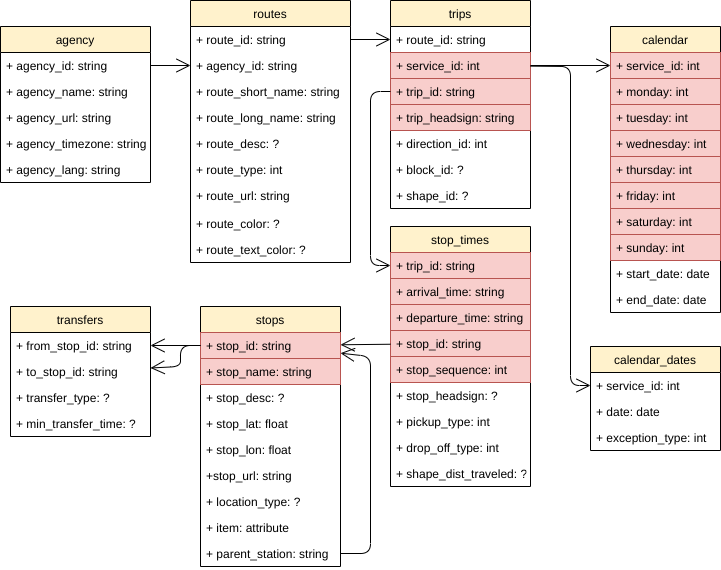
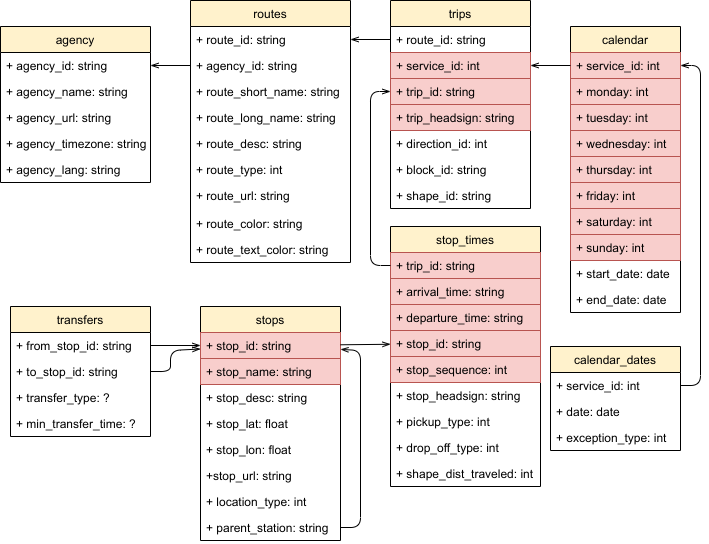
actualise CDC et schema bdd

Changed region(s): [[0.0, 0.0, 1.0, 1.0]]

diff --git a/CDC.md b/CDC.md
@@ -64,6 +64,8 @@ Dans le programme, ces informations sont obtenues via l'équipement terminal sur
 Il peut s'agir d'une gare de chemin de fer ou d'une gare routière. 
 Une ville peut posséder plusieurs gares.
 
+**itinéraire** : 
+
 **place** : siège à bord d'un train, réservable par un voyageur pour un voyage.
 
 **rame** : train au sens « matériel roulant». *compléter : dire quels attributs sont propres à la rame (le nb de places, etc.) là où d'autres attributs sont propres au train ou au voyage*
@@ -72,6 +74,8 @@ Une ville peut posséder plusieurs gares.
 
 **train** : tout véhicule dont la circulation est assurée par la SNCF et dont l'utilisateur peut réserver une place. 
 Les trains sont de différents types, qu'ils circulent sur voie ferrée ou routière (TGV, INOUI, TER, OUIGO, Car).
+
+**trajet** : 
 
 **service** : ligne commerciale définie par une gare de départ, une gare d'arrivée, des gares d'arrêt, des horaires de départ et d'arrivée dans chacune des gares de départ, d'arrivée et d'arrêt, et un calendrier de circulation (circule ou ne circule pas, pour chaque jour de semaine). Le service est le numéro de train utilisé en gare et sur un billet de train pour la communication avec les voyageurs.
 
@@ -304,7 +308,7 @@ Un voyageur/agent doit pouvoir réserver des places en choisissant :
 
 ### Jeux de données
 
-Les jeux de données utilisés sont ceux de la SNCF, mis à disposition à [](https://ressources.data.sncf.com/explore/)
+Les ensembles de données utilisés sont ceux mis à disposition par la SNCF à https://ressources.data.sncf.com/explore/
 
 * Horaires
   * Horaires des TGV : https://ressources.data.sncf.com/explore/dataset/horaires-des-train-voyages-tgvinouiouigo/table/
@@ -319,114 +323,181 @@ Les jeux de données utilisés sont ceux de la SNCF, mis à disposition à [](ht
 
 #### Horaires
 
-Les jeux de données Horaires (de façon identique pour chaque jeu) sont constitués de 8 tables :
+Les ensembles de données sont disponibles au format [GTFS](https://fr.wikipedia.org/wiki/General_Transit_Feed_Specification) (*General Transit Feed Specification*), format de ficher standardisé pour les horaires de transports en commun.
 
-* `agency.txt`
-* `calendar_dates.txt`
-* `calendar.txt`
-* `routes.txt`
-* `stop_times.txt`
-* `stops.txt`
-* `transfers.txt`
-* `trips.txt`
+##### Description du format GTFS
 
-Le schéma relationnel est le suivant :
+Parmi les fichiers obligatoires et facultatifs du standard GTFS, chaque ensemble de données Horaires fourni par la SNCF est constitué de 8 fichiers :
 
-[mettre le schéma]
+* `agency.txt` : Agences de transports en commun ayant un service représenté dans cet ensemble de données.
+* `stops.txt` : Arrêts où les voyageurs peuvent monter et descendre. Définit également les stations et leurs entrées.
+* `routes.txt` : Itinéraires en transports en commun. Un itinéraire est un ensemble de trajets présentés aux voyageurs  comme relevant du même service.
+* `trips.txt` : Trajets pour chaque itinéraire. Un trajet est une série d'au moins deux arrêts desservis à des horaires précis.
+* `stop_times.txt` : Heures d'arrivée et de départ d'un train depuis des arrêts spécifiques, pour chaque trajet.
+* `calendar.txt` : Dates de service indiquées à l'aide d'un horaire hebdomadaire comportant des dates de départ et d'arrivée.
+* `calendar_dates.txt` : Exceptions pour les services définis dans le fichier `calendar.txt`.
+* `transfers.txt` : Règles de liaison aux pôles de correspondance entre des itinéraires.
 
-La table `agency.txt` décrit les **??agences??**.
-Elle comporte les champs :
 
-* `agency_id` : 
-* `agency_name` : 
-* `agency_url` :
-* `agency_timezone` :
-* `agency_lang` :
+Le schéma logique d'un ensemble de données Horairesest le suivant :
 
-La table `routes.txt` décrit les lignes de voie ferrée.
-Elle est liée à `agency.txt` par le champ `agency_id`.
-Elle comporte les champs :
+![Schéma logique des ensembles de données Horaires fournis par la SNCF](diagrammes/bdd_sncf_horaires.png "Schéma logique des ensembles de données Horaires fournis par la SNCF")
 
-* `route_id` :
-* `agency_id` :
-* `route_short_name` :
-* `route_long_name` :
-* `route_desc` :
-* `route_type` :
-* `route_url` :
-* `route_color` :
-* `route_text_color` :
+###### Fichier `agency.txt`
 
-La table `trips.txt` décrit les lignes commerciales (par exemple : ).
-Elle est liée à `routes.txt` par le champ `route_id`.
-Elle comporte les champs : 
+Le fichier `agency.txt` décrit les agences de transports en commun ayant un service représenté dans cet ensemble de données. Il s'agit de la SNCF.
+Il comporte les champs :
 
-* `route_id` : l'identifiant de route sur laquelle la ligne commerciale circule.
-* `service_id` : l'identifiant du **??service??**
-* `trip_id` : l'identifiant du **??trip??**
-* `trip_headsign` : le numéro de train tel qu'affiché en gare et sur les billets
-* `direction_id` :
-* `block_id` :
-* `shape_id` :
+* `agency_id` : indique la marque du réseau de transports en commun (souvent identique au nom de l'agence)
+* `agency_name` : nom complet de l'agence de transports en commun.
+* `agency_url` : URL de l'agence de transports en commun.
+* `agency_timezone` : fuseau horaire de la zone où se trouve l'agence de transports en commun.
+* `agency_lang` : langue principale utilisée par cette agence de transports en commun.
 
-La table `stop_times.txt` décrit les arrêts en gare pour 
-Elle comporte les champs : 
+###### Fichier `stops.txt`
 
-* `trip_id` : le **trip** concerné
-* `arrival_time` : l'heure d'arrivée en gare
-* `departure_time` : l'heure de départ de la gare
-* `stop_id` : l'identifiant de la gare d'arrêt
-* `stop_sequence` :
-* `stop_headsign` :
-* `pickup_type` :
-* `drop_off_type` :
-* `shape_dist_traveled` :
+Le fichier `stops.txt` décrit les arrêts où les voyageurs peuvent monter et descendre, c'est à dire les gares.
+Il est lié à la table `stop_times.txt` par le champ `stop_id`.
+Il comporte les champs :
 
-La table `stops.txt` décrit les lieux d'arrêt, c'est-à-dire les gares.
-Elle est liée à la table `stop_times.txt` par le champ `stop_id`.
-Elle comporte les champs :
+* `stop_id` : identifie un arrêt, une station ou une entrée de station.
+  Le terme "entrée de station" désigne à la fois les entrées et les sorties de station. Les arrêts, les stations et les entrées de station sont collectivement appelés "emplacements". Le même arrêt peut être desservi par plusieurs itinéraires.
+* `stop_name` : nom de l'emplacement.
+* `stop_desc` : description de l'emplacement. Ce champ n'est pas toujours renseigné.
+* `stop_lat` : latitude de l'emplacement.
+* `stop_lon` : longitude de l'emplacement.
+* `zone_id` : définit la zone tarifaire d'un arrêt. Ce champ n'est pas toujours renseigné.
+* `stop_url` : URL d'une page Web qui décrit l'emplacement. Ce champ n'est pas toujours renseigné.
+* `location_type` : type d'emplacement :
+  * 0 ou vide : arrêt ou quai (lieu où les usagers montent dans un véhicule de transport en commun ou en descendent). Le terme "quai" est utilisé lorsque cette valeur est définie au sein d'un champ `parent_station`.
+  * 1 : station (zone ou structure physique comprenant un ou plusieurs quais)
+  * 2 : entrée ou sortie (lieu où les usagers peuvent entrer dans une station depuis la rue ou en sortir). Si une entrée/sortie appartient à plusieurs stations, tous les chemins correspondants sont indiqués, et le fournisseur de données doit désigner une station en tant que station principale (parente).
+  * 3 : intersection générique (un emplacement dans une station qui ne correspond à aucune autre valeur `location_type`).
+  * 4 : Zone d'embarquement (un emplacement spécifique sur un quai où les usagers peuvent monter à bord d'un véhicule ou en descendre)
+* `parent_station` : spécifie la hiérarchie entre les différents emplacements définis dans le fichier `stops.txt`. Contient l'ID de l'emplacement parent, comme suit :
+  * Arrêt/quai (`location_type`=0) : le champ `parent_station` contient l'ID d'une station.
+  * Station (`location_type`=1) : ce champ doit être vide.
+  * Entrée/sortie (`location_type`=2) ou intersection générique (`location_type`=3) : le champ `parent_station` contient l'ID d'une station (`location_type`=1).
+  * zone d'embarquement (`location_type`=4) : le champ `parent_station` contient l'ID d'un quai.
 
-* `stop_id` : l'identifiant de la gare d'arrêt
-* `stop_name` : le nom de la gare d'arrêt
-* `stop_desc`
-* `stop_lat` : la latitude de la gare d'arrêt
-* `stop_lon` : la longitute de la gare d'arrêt
-* `zone_id` : 
-* `stop_url` : 
-* `location_type` : 
-* `parent_station` :
+###### Fichier `routes.txt`
 
-La table `calendar.txt` décrit les jours de service pour un service donné.
-Elle est liée à la table `trips.txt` par le champ `service_id`.
-Elle comporte les champs :
+Le fichier `routes.txt` décrit les itinéraires en transports en commun. Un itinéraire est un ensemble de trajets présentés aux voyageurs comme relevant du même service.
+Il est liée à `agency.txt` par le champ `agency_id`.
+Il comporte les champs :
 
-* `service_id` : l'identifiant du **service** concerné
-* `monday` : valeur boléenne de circulation le lundi
-* `tuesday` : valeur boléenne de circulation le mardi
-* `wednesday` : valeur boléenne de circulation le mercredi
-* `thursday` : valeur boléenne de circulation le jeudi
-* `friday` : valeur boléenne de circulation le vendredi
-* `saturday` : valeur boléenne de circulation le samedi
-* `sunday` : valeur boléenne de circulation le dimanche
+* `route_id` : définit un itinéraire.
+* `agency_id` : agence pour l'itinéraire spécifié. Fait référence à `agency.agency_id`.
+* `route_short_name` : version courte du nom d'un itinéraire. Il s'agit généralement d'un identifiant court, abstrait, comme "32", "100X" ou "vert", que les usagers utilisent pour identifier un itinéraire, sans donner d'indications sur les lieux desservis
+* `route_long_name` : le nom complet d'un itinéraire. Ce nom est généralement plus descriptif que la version courte indiquée dans le champ `route_short_name`. Il inclut souvent la destination ou le terminus de l'itinéraire. 
+* `route_desc` : description d'un itinéraire. Les informations fournies doivent être utiles et de qualité, elles ne répètent pas le nom de l'itinéraire. Ce champ n'est pas renseigné.
+* `route_type` : décrit le moyen de transport utilisé pour un itinéraire. Les options suivantes sont acceptées :
+  * `0` : tramway ou métro léger. Tout système de métro léger ou circulant sur la chaussée dans une zone métropolitaine.
+  * `1` : métro. Tout système ferroviaire souterrain circulant au sein d'une zone métropolitaine.
+  * `2` : train. Utilisé pour les trajets interurbains ou longue distance.
+  * `3` : bus. Utilisé pour les lignes de bus courte et longue distance.
+  * `4` : ferry. Utilisé pour le service de bateaux courte et longue distance.
+  * `5` : tramway à traction par câble. Utilisé pour les systèmes de tramways au niveau de la chaussée dans lesquels le câble passe sous le véhicule, comme c'est le cas à San Francisco.
+  * `6` : téléphérique. Service de transport par câble où les cabines, voitures, télécabines ou sièges sont suspendus à l'aide d'un ou de plusieurs câbles.
+  * `7` : funiculaire. Tout système ferroviaire conçu pour les pentes raides.
+  * `11` : trolleybus. Autobus électrique alimenté par des lignes aériennes de contact.
+  * `12` : monorail. Service de chemin de fer roulant sur une voie constituée d'un rail ou d'une poutre unique.
+* `route_url` : URL d'une page Web pour un itinéraire spécifique.
+* `route_color` : couleur de l'itinéraire correspondant à celle utilisée dans les supports destinés au public.
+* `route_text_color` : couleur lisible pour le texte à afficher sur la couleur d'arrière-plan `route_color`.
+
+###### Fichier `trips.txt`
+
+Le fichier `trips.txt` définit les trajets pour chaque itinéraire.
+Il est lié à `routes.txt` par le champ `route_id`.
+Il comporte les champs : 
+
+* `route_id` : définit un itinéraire. Fait référence à `routes.route_id`.
+* `service_id` : définit les dates auxquelles le service est disponible pour un ou plusieurs itinéraires. Fait référence à `calendar.service_id` ou à `calendar_dates.service_id`
+* `trip_id` : définit un trajet.
+* `trip_headsign` : texte qui apparaît sur la signalétique indiquant aux voyageurs la destination du trajet (le numéro de train tel qu'affiché en gare et sur les billets). Ce champ permet de différencier les modèles de service sur un même itinéraire.
+* `direction_id` : indique la direction du trajet. Ce champ n'est pas utilisé pour les itinéraires, mais il permet de distinguer les trajets en fonction de leur direction lors de la publication des horaires. Les options suivantes sont acceptées :
+  * `0` : trajet dans un sens (trajet aller, par exemple).
+  * `1` : trajet dans le sens opposé (trajet retour, par exemple)
+* `block_id` : identifie le bloc auquel appartient le trajet. Un bloc comprend un seul trajet ou de nombreux trajets séquentiels effectués par le même véhicule. Ce champ n'est pas renseigné.
+* `shape_id` : définit une forme géospatiale décrivant le parcours du véhicule lors d'un trajet. Ce champ n'est pas renseigné.
+
+###### Fichier `stop_times.txt`
+
+Le fichier `stop_times.txt` définit les heures d'arrivée et de départ d'un train depuis des arrêts spécifiques, pour chaque trajet.
+Il est lié à `stops.txt` par le champ `stop_id`.
+Il comporte les champs : 
+
+* `trip_id` : définit un trajet. Fait référence à `trips.trip_id`.
+* `arrival_time` : heure d'arrivée à un arrêt donné pour un trajet spécifique inclus dans un itinéraire. Si les heures d'arrivée et de départ sont identiques pour un arrêt spécifique, la même valeur est saisie pour les champs `arrival_time` et `departure_time`. Pour les heures après minuit de la journée de service, la valeur saisie est une supérieure à 24:00:00 au format HH:MM:SS dans l'heure locale du jour où commence le trajet.
+* `departure_time` : heure de départ depuis un arrêt donné pour un trajet spécifique inclus dans un itinéraire. Si les heures d'arrivée et de départ sont identiques pour un arrêt spécifique, la même valeur est saisie pour les champs `arrival_time` et `departure_time`. Pour les heures après minuit de la journée de service, la valeur saisie est supérieure à 24:00:00 au format HH:MM:SS de l'heure locale le jour où commence le trajet. 
+* `stop_id` : identifie l'arrêt desservi. Fait référence à `stops.stop_id`.
+* `stop_sequence` : ordre des arrêts desservis lors d'un trajet particulier. Les valeurs augmentent à mesure du trajet, mais ne sont pas nécessairement consécutives.
+* `stop_headsign` : texte qui apparaît sur la signalétique indiquant aux voyageurs la destination du trajet.
+* `pickup_type` : indique les possibilités de montée à bord. Les options suivantes sont acceptées :
+  * `0` ou vide : les usagers peuvent monter à bord aux horaires standards.
+  * `1` : les usagers ne peuvent pas monter à bord.
+  * `2` : les usagers doivent téléphoner à l'agence pour pouvoir monter à bord.
+  * `3` : les usagers doivent contacter le conducteur pour pouvoir monter.
+* `drop_off_type` : indique les possibilités de descente du véhicule. Les options suivantes sont acceptées :
+  * `0` ou vide : les usagers peuvent monter à bord aux horaires standards.
+  * `1` : les usagers ne peuvent pas monter à bord.
+  * `2` : les usagers doivent téléphoner à l'agence pour pouvoir monter à bord.
+  * `3` : les usagers doivent contacter le conducteur pour pouvoir monter.
+* `shape_dist_traveled` : indique la distance réelle parcourue le long du tracé donné entre le premier arrêt et l'arrêt spécifié dans cet enregistrement.
+
+###### Fichier `calendar.txt` 
+
+Le fichier `calendar.txt` définit les dates de service indiquées à l'aide d'un horaire hebdomadaire comportant des dates de départ et d'arrivée.
+Il est liée au fichier `trips.txt` par le champ `service_id`.
+Il comporte les champs :
+
+* `service_id` : définit de façon unique les dates auxquelles le service est disponible pour un ou plusieurs itinéraires. Fait référence à `trips.service_id`.
+* `monday` : indique si le service est proposé tous les lundis de la plage de dates spécifiée par les champs `start_date` et `end_date`. Les options suivantes sont acceptées :
+  * `1` : le service est disponible tous les lundis de la plage de dates.
+  * `0` : le service n'est pas disponible les lundis de la plage de dates.
+* `tuesday` : fonctionne comme le champ `monday`, mais pour les mardis
+* `wednesday` : fonctionne comme le champ `monday`, mais pour les mercredis
+* `thursday` : fonctionne comme le champ `monday`, mais pour les jeudis
+* `friday` : fonctionne comme le champ `monday`, mais pour les vendredis
+* `saturday` : fonctionne comme le champ `monday`, mais pour les samedis
+* `sunday` : fonctionne comme le champ `monday`, mais pour les dimanches
 * `start_date` : date de début de validité du service
 * `end_date` : date de fin de validité du service
 
-La table `calendar_dates.txt` décrit ??des exceptions au calendrier de circulation défini par `calendar.txt` pour un service donné et une date donnée, en précisant la nature de l'exception.
-Elle est liée à la table `trips.txt` ou `calendar.txt` par le champ `service_id`
-Elle comporte les champs : 
+###### Fichier `calendar_dates.txt`
 
-* `service_id` : l'identifiant du **service** concerné
-* `date` : la date de circulation concernée
-* `exception_type` : le type d'exception
+Le fichier `calendar_dates.txt` définit les exceptions pour les services définis dans le fichier `calendar.txt`.
+Il est liée au fichier `calendar.txt` par le champ `service_id`.
+Il comporte les champs : 
+
+* `service_id` : définit les dates auxquelles le service est exceptionnellement disponible ou indisponible pour un ou plusieurs itinéraires. Fait référence à `calendar.service_id`.
+* `date` : date à laquelle le service proposé est différent du service standard.
+* `exception_type` : indique si le service est disponible à la date spécifiée dans le champ date. Les options suivantes sont acceptées :
+  * `1` : le service a été ajouté pour la date spécifiée.
+  * `2` : le service a été supprimé pour la date spécifiée.
 
 Nous ne nous servont pas de cette table.
 
-La table `transferts.txt` décrit ??
-Elle comporte les champs :
+###### Fichier `transferts.txt`
 
-* `from_stop_id`
-* `to_stop_id`
-* `transfer_type`
-* `min_transfer_time`
+Le fichier `transferts.txt` spécifie des règles et des valeurs de remplacement supplémentaires pour les correspondances sélectionnées.
+Il comporte les champs :
 
-La table est vide pour les jeux de données TGV, TER, d'autres ?
+* `from_stop_id` : identifie l'arrêt ou la station de départ pour une liaison entre deux itinéraires. Si ce champ fait référence à une station, la règle de correspondance s'applique à tous ses arrêts enfants. Fait référence à `stops.stop_id`.
+* `to_stop_id` : identifie l'arrêt ou la station de départ pour une liaison entre deux itinéraires. Si ce champ fait référence à une station, la règle de correspondance s'applique à tous ses arrêts enfants. Fait référence à `stops.stop_id`.
+* `transfer_type` : Indique le type de correspondance pour la paire (from_stop_id, to_stop_id) spécifiée. Les options suivantes sont acceptées :
+  * `0` ou vide : point de correspondance recommandé entre deux itinéraires.
+  * `1` : point de correspondance temporisé entre deux itinéraires. Le véhicule qui part doit attendre celui qui arrive et laisser suffisamment de temps pour que les usagers puissent prendre la correspondance.
+  * `2` : correspondance nécessitant une durée minimale entre l'heure d'arrivée et l'heure de départ. Spécifiez la durée en question dans le champ `min_transfer_time`.
+  * `3` : aucune correspondance ne peut être assurée à cet emplacement.
+* `min_transfer_time` : délai (en secondes) devant être accordé pour permettre une correspondance entre deux itinéraires aux arrêts spécifiés.
+
+Le fichier est vide pour les ensembles de données utilisés. Nous ne nous servons pas de ce fichier.
+
+##### Données traitées par le programme
+
+Toutes les données fournies dans un ensemble de données Horaires ne sont pas utiles pour le programme `reservation`.
+Parmi les données des ensembles de données, seule une partie est lue par le programme.
+Parmi les données lues par le programme, seule une partie est stockée en mémoire.
+
